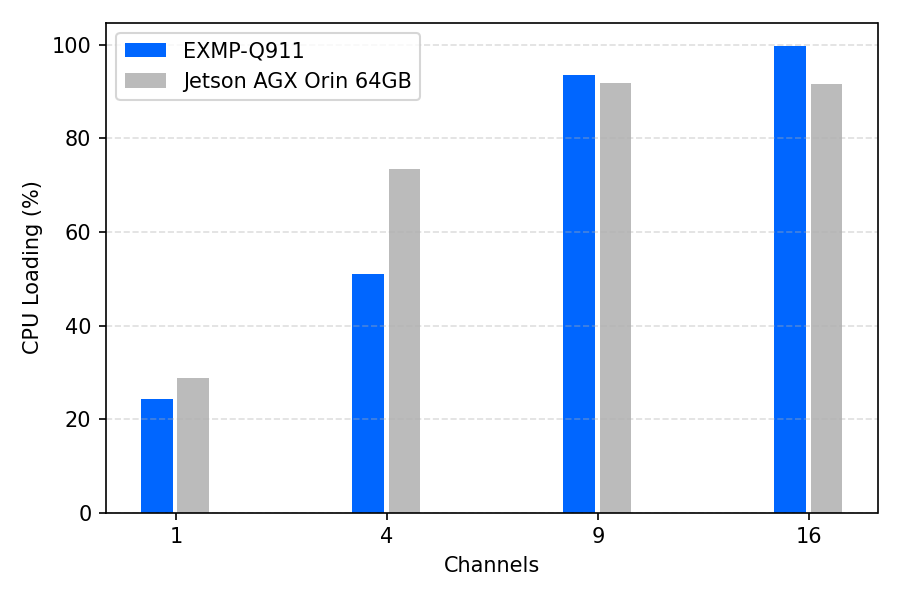
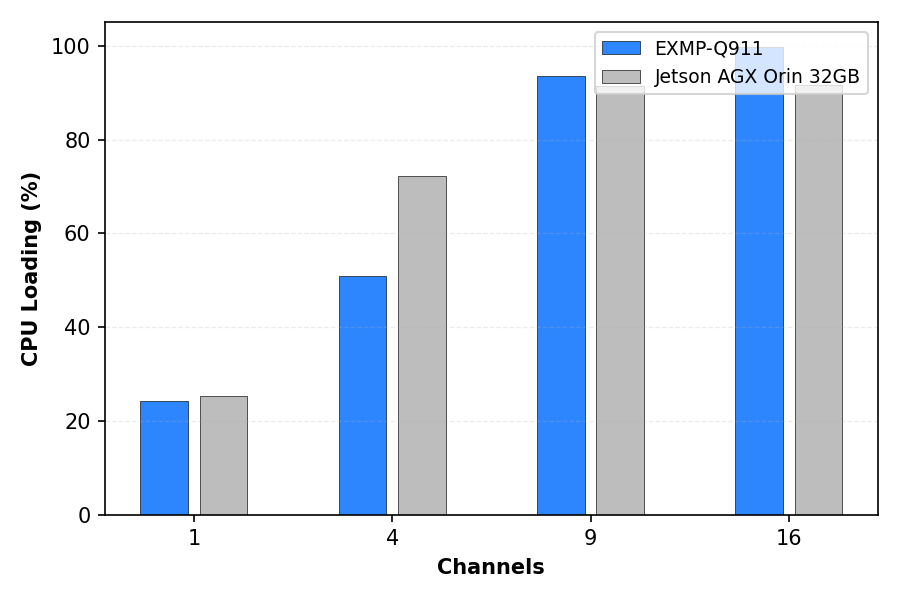
fix: Fix writing errors and correct table errors

diff --git a/benchmarks/iqs-streampipe/README.md b/benchmarks/iqs-streampipe/README.md
@@ -8,7 +8,7 @@
 # Multi-stream inference status on Jetson AGX and Qualcomm QCS9075
 
 This topic describes a multi-stream inference benchmark for the iQS-Streampipe
-application on the NVIDIA Jetson AGX Orin 64GB and the EXMP-Q911 platform.
+application on the NVIDIA Jetson AGX Orin 32GB and the EXMP-Q911 platform.
 The purpose is to observe execution behavior as the number of channels
 increases. The results are not intended to be a general hardware performance
 ranking. For live multi-stream inference on the recording platform, please check [here](./fig/nv_qc_live.mp4).
@@ -16,7 +16,7 @@ ranking. For live multi-stream inference on the recording platform, please check
 - Application: [iQS-Streampipe](../../tutorials/applications/iqs-streampipe/README.md)
 - Task: object detection with an INT8 model
 - Input: 1080p, 30 FPS H.264 video streams
-- Platforms: Jetson AGX Orin 64GB, EXMP-Q911 (Qualcomm IQ-9075-based module)
+- Platforms: Jetson AGX Orin 32GB, EXMP-Q911 (Qualcomm IQ-9075-based module)
 - Metrics:
   - Output average end-to-end FPS per channel
   - Average CPU loading (%)
@@ -62,10 +62,10 @@ The benchmark uses two edge AI platforms with the configurations shown below.
 | **EXMP-Q911**                 |      4       |     8     |       180       | Normal         |        51.0          |            8.6              |               29.47                |       32.53        |       30.60        |       30.00        |       29.44        |
 | **EXMP-Q911**                 |      9       |     8     |       180       | Normal         |        93.6          |           12.0              |               28.41                |       59.88        |       37.55        |       29.55        |       24.25        |
 | **EXMP-Q911**                 |      16      |     8     |       180       | Normal         |        99.8          |           17.7              |               15.90                |       44.17        |       24.00        |       16.91        |       12.86        |
-| **NVIDIA Jetson AGX Orin 64GB** |    1       |     8     |       180       | MAXN           |        28.8          |           25.2              |               29.81                |       39.04        |       31.42        |       29.89        |       28.40        |
-| **NVIDIA Jetson AGX Orin 64GB** |    4       |     8     |       180       | MAXN           |        73.4          |           26.2              |               21.34                |       52.27        |       30.44        |       22.52        |       17.15        |
-| **NVIDIA Jetson AGX Orin 64GB** |    9       |     8     |       180       | MAXN           |        91.9          |           27.9              |                8.00                |       19.83        |       11.40        |        8.55        |        6.54        |
-| **NVIDIA Jetson AGX Orin 64GB** |    16      |     8     |       180       | MAXN           |        91.6          |           29.6              |                4.41                |        9.79        |        6.02        |        4.61        |        3.59        |
+| **NVIDIA Jetson AGX Orin 32GB** |    1       |     8     |       180       | MAXN           |        25.3          |           18.8              |               29.78                |       39.78        |       31.28        |       29.82        |       28.55        |
+| **NVIDIA Jetson AGX Orin 32GB** |    4       |     8     |       180       | MAXN           |        72.3          |           20.3              |               21.26                |       52.68        |       30.59        |       22.23        |       17.13        |
+| **NVIDIA Jetson AGX Orin 32GB** |    9       |     8     |       180       | MAXN           |        91.5          |           21.9              |                7.58                |       18.09        |       10.46        |        7.88        |        6.11        |
+| **NVIDIA Jetson AGX Orin 32GB** |    16      |     8     |       180       | MAXN           |        91.7          |           20.1              |                4.29                |        8.86        |        5.75        |        4.46        |        3.54        |
 
 <p align="center">
   <img src="./fig/fps_per_channel.png" width="32%">
@@ -94,7 +94,7 @@ Under the aligned 8-core configuration, both systems show the same pattern:
 as channel count increases and CPU usage approaches saturation, per-channel
 FPS drops from near real-time to lower values. In this workload, near
 real-time FPS per channel is sustained up to 9 channels on EXMP-Q911, while
-on NVIDIA Jetson AGX Orin 64GB the per-channel FPS is already below
+on NVIDIA Jetson AGX Orin 32GB the per-channel FPS is already below
 real-time at higher channel counts as the load increases.
 
 ## Benchmark method
@@ -131,7 +131,7 @@ Below is an overview of how we conduct platform benchmark testing.
    ![output.png](./fig/output_quaclomm.png)
 
 
-### NVIDIA Jetson AGX Orin 64GB procedure
+### NVIDIA Jetson AGX Orin 32GB procedure
 
 1. Download the archive using the following command.
    ```
